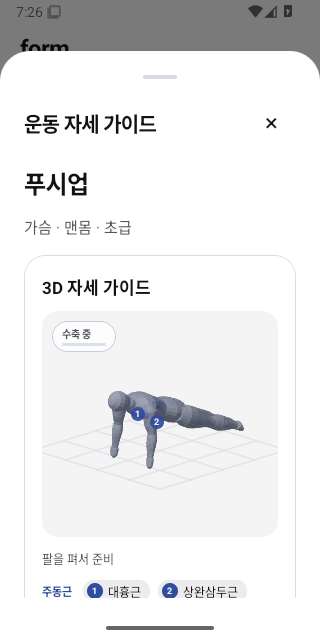
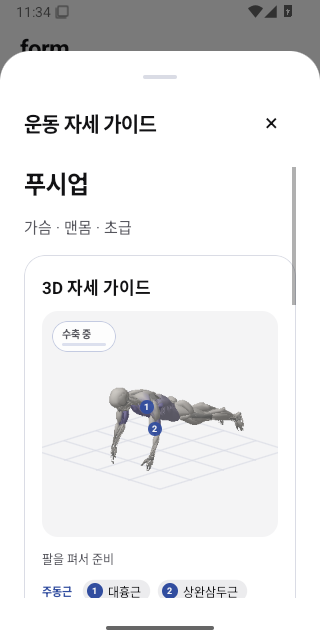
Document the Form 0.3.2 release with its verified 3D anatomy captures

Changed region(s): [[0.3438, 0.5938, 0.7812, 0.75], [0.9062, 0.25, 0.9375, 0.4688], [0.0625, 0.0, 0.2188, 0.0312]]

diff --git a/README.md b/README.md
@@ -2,13 +2,14 @@
 
 iPhone·iPad와 Android에서 운동을 기록하는 네이티브 앱입니다. 루틴·세트 기록, 3D 운동 자세, 인바디, Apple 건강·Health Connect, Apple Watch·Wear OS 동반 앱을 제공합니다.
 
-**현재 버전은 Form 0.3.2 네이티브 테스트 빌드입니다.** Android 휴대폰과 Wear OS는 테스트 APK, iPhone·iPad와 Apple Watch는 서명이 필요한 IPA로 제공됩니다. 기기에서 건강 연동과 워치 페어링을 검증하는 절차는 설치 문서에 있습니다. [v0.3.2 다운로드](https://github.com/M0lli2/form-fitness/releases/tag/v0.3.2) · [설치 및 실기기 검증](docs/INSTALL.md)
+**현재 버전은 Form 0.3.2 네이티브 테스트 빌드입니다.** Android 휴대폰과 Wear OS는 테스트 APK, iPhone·iPad와 Apple Watch는 서명이 필요한 IPA로 제공됩니다. 저장소가 공개되어 있어 GitHub 로그인 없이 내려받을 수 있고, 기기에서 건강 연동과 워치 페어링을 검증하는 절차는 설치 문서에 있습니다. [v0.3.2 다운로드](https://github.com/M0lli2/form-fitness/releases/tag/v0.3.2) · [설치 및 실기기 검증](docs/INSTALL.md)
 
 ## 0.3.2 변경사항
 
-- 운동도감의 기본 63종과 사용자 추가 운동에서 같은 3D 모델로 근육을 확인할 수 있습니다. 22종은 기존 자세 재생을 지원하고, 나머지는 대상 근육과 단계별 운동 방법을 제공합니다.
-- 운동도감의 근육 선택과 기록의 최근 7일 근육 볼륨에도 동일한 조형을 사용합니다. 무광 회백색을 기본으로 쓰며 선택한 근육과 볼륨을 보라색으로 표시합니다.
+- 운동도감의 기본 63종과 사용자 추가 운동에서 같은 3D 모델로 근육을 확인할 수 있습니다. 22종은 기존 자세 재생을 지원하고, 나머지는 대상 근육과 단계별 운동 방법을 제공합니다. 동작을 재생하면 근육 표면이 자세를 따라 움직입니다.
+- 운동도감의 근육 선택과 기록의 최근 7일 근육 볼륨에도 동일한 조형을 사용합니다. 몸통과 팔다리를 16개 근육 부위로 나누고, 무광 회백색을 기본으로 쓰며 주동근·보조근과 선택한 근육, 기록된 볼륨을 보라색으로 표시합니다.
 - 루틴에서 운동 종목을 추가한 뒤 시작 전에 중량·횟수를 입력하고 세트를 추가할 수 있습니다.
+- 같은 빌드에서 Android·Wear OS APK 2종과 iPhone·iPad·Apple Watch용 무서명 IPA 2종, SHA-256 체크섬을 함께 올렸습니다.
 
 | 시작 전 세트 입력 | 3D 근육 모델 |
 |---|---|
@@ -59,13 +60,13 @@ iPhone·iPad와 Android에서 운동을 기록하는 네이티브 앱입니다. 
 |---|
 | <img src="docs/screenshots/settings-aligned-steppers.png" width="235" alt="주간 목표와 휴식 시간의 빼기 및 더하기 버튼이 각각 같은 열에 정렬된 다크 모드 화면"> |
 
-### 피드백 반영판 실제 화면
+### 0.3.2 3D 근육 화면
 
-아래 화면은 피드백 기능이 처음 적용된 0.1.0 Android 에뮬레이터에서 캡처했습니다. [실행 기록과 원본 이미지](https://github.com/M0lli2/form-fitness/actions/runs/44474655697)
+0.3.2 릴리스 APK를 Android 에뮬레이터에서 실행해 캡처했습니다. 운동도감과 자세 가이드, 최근 7일 근육 볼륨이 같은 조형과 색을 사용하는 것을 확인할 수 있습니다. [Android 실행·검증 기록](https://github.com/M0lli2/form-fitness/actions/runs/44898733252)
 
-| 운동도감 근육 필터 | 3D 근육 해부 | 근육 범례와 회전 조작 |
+| 3D 자세 가이드 · 푸시업 | 최근 7일 근육 볼륨 · 앞면 | 최근 7일 근육 볼륨 · 배면 |
 |---|---|---|
-| <img src="docs/screenshots/feedback-android-muscle-filter.png" width="235" alt="운동도감 타깃 근육 필터"> | <img src="docs/screenshots/feedback-android-anatomy.png" width="235" alt="운동 자세 가이드의 근육 레이어"> | <img src="docs/screenshots/feedback-android-anatomy-turned.png" width="235" alt="근육 범례와 회전·확대 조작 버튼"> |
+| <img src="docs/screenshots/anatomy-native-guide.png" width="235" alt="3D 자세 가이드의 푸시업 자세와 주동근 번호"> | <img src="docs/screenshots/weekly-anatomy-front.png" width="235" alt="기록 화면 최근 7일 근육 볼륨의 앞면"> | <img src="docs/screenshots/weekly-anatomy-back.png" width="235" alt="기록 화면 최근 7일 근육 볼륨의 배면"> |
 
 ## 설치
 
@@ -77,6 +78,8 @@ iPhone·iPad와 Android에서 운동을 기록하는 네이티브 앱입니다. 
 | iPhone + Apple Watch | [Form-0.3.2-iOS-unsigned-watch.ipa](https://github.com/M0lli2/form-fitness/releases/download/v0.3.2/Form-0.3.2-iOS-unsigned-watch.ipa). 휴대폰·워치 앱 각각에 올바른 서명과 권한 구성이 필요합니다. |
 
 [SHA-256 체크섬](https://github.com/M0lli2/form-fitness/releases/download/v0.3.2/Form-0.3.2-SHA256SUMS.txt) · [설치 순서 및 TestFlight 준비](docs/INSTALL.md)
+
+네 파일 모두 공개 저장소의 릴리스에 올라 있어 GitHub 계정 없이 내려받을 수 있습니다. iPhone·iPad와 Apple Watch 파일은 미서명이므로 설치하려면 Apple 서명과 프로비저닝이 필요합니다.
 
 ## 이전 테스트 빌드 실행 화면
 
@@ -96,9 +99,9 @@ Android 캡처는 [저장·복원 테스트](https://github.com/M0lli2/form-fitn
 
 - 하단 **운동도감**에서 운동을 선택하면 자세 상세가 열립니다. 운동 중 **운동 추가**에서도 자세를 확인한 뒤 추가할 수 있습니다.
 - 3D 가이드는 푸시업·맨몸 스쿼트·덤벨 컬 등을 포함해 총 22종입니다. 대상 운동에는 운동도감에서 3D 표시가 나타납니다.
-- 모델은 관절 좌표 기반입니다. 재생·일시 정지, 방향 전환, 확대, 주요 자세 전환을 지원합니다. 다른 운동도 단계별 텍스트 가이드를 제공합니다.
+- 모델은 원본 조형의 표면을 저장된 관절 좌표에 맞춰 변형합니다. 재생·일시 정지, 방향 전환, 확대, 주요 자세 전환을 지원합니다. 다른 운동도 단계별 텍스트 가이드를 제공합니다.
 - **근육 해부 모델**은 몸통과 팔다리의 입체 표면 위에 16개 근육 부위의 윤곽을 표시합니다. 모델이나 범례를 탭해 근육을 선택할 수 있습니다. [자세 가이드 모델](docs/MOTION-GUIDE.md)
-- 근육 그래픽과 회전 조작은 [피드백 반영판 실제 화면](#피드백-반영판-실제-화면)에서 확인할 수 있습니다.
+- 근육 그래픽과 회전 조작은 [0.3.2 3D 근육 화면](#032-3d-근육-화면)에서 확인할 수 있습니다.
 
 ## 디자인 검토
 
@@ -226,7 +229,7 @@ npm run check
 npm run typecheck
 ```
 
-v0.3.1에서 도메인 테스트 82개, 네이티브 계약·타입 검사, Android 번들 생성을 확인했습니다. 릴리스 빌드에서는 Android 에뮬레이터 운동 여정, iOS 시뮬레이터 XCTest, APK 서명·버전과 Apple IPA 버전을 검증했습니다. [소스 검사](https://github.com/M0lli2/form-fitness/actions/runs/44658112152) · [릴리스 검증](https://github.com/M0lli2/form-fitness/actions/runs/44658112071) 실기기 건강 권한, 워치 페어링, 스토어 서명·심사는 [실기기 검증 표](docs/INSTALL.md#남은-실기기-검증)에서 관리합니다.
+v0.3.2에서 도메인 테스트 87개, 네이티브 계약·타입 검사, Android 번들 생성을 확인했습니다. 릴리스 빌드에서는 Android 에뮬레이터 운동 여정, iOS 시뮬레이터 XCTest, APK 서명·버전과 Apple IPA 버전을 검증했습니다. [소스 검사](https://github.com/M0lli2/form-fitness/actions/runs/44898733199) · [릴리스 검증](https://github.com/M0lli2/form-fitness/actions/runs/44898733252) 실기기 건강 권한, 워치 페어링, 스토어 서명·심사는 [실기기 검증 표](docs/INSTALL.md#남은-실기기-검증)에서 관리합니다.
 
 ## 이전 구현 기록
 

diff --git a/docs/MOTION-GUIDE.md b/docs/MOTION-GUIDE.md
@@ -2,7 +2,7 @@
 
 운동도감의 기본 운동 63종에서 3D 근육 모델을 열 수 있습니다. 자세 좌표가 있는 22종은 반복 재생, 일시정지, 8방향 회전, 확대와 시작·끝 자세를 지원합니다. 나머지 종목과 사용자 추가 운동은 앞면·배면 근육 모델과 기존의 단계별 운동 방법을 표시합니다.
 
-도감의 타깃 근육 선택, 운동 상세, 기록의 최근 7일 근육 볼륨은 같은 모델을 사용합니다. 회백색을 기본으로 쓰며 운동의 주동근·보조근, 직접 고른 근육, 기록된 볼륨은 보라색으로 표시합니다. 운동 상세에서 근육을 누르면 부위 이름을 확인할 수 있습니다.
+도감의 타깃 근육 선택, 운동 상세, 기록의 최근 7일 근육 볼륨은 같은 모델을 사용합니다. 회백색을 기본으로 쓰며 운동의 주동근·보조근, 직접 고른 근육, 기록된 볼륨은 보라색으로 표시합니다. 운동 상세에서 근육을 누르면 부위 이름을 확인할 수 있습니다. 동작을 재생하는 동안 근육 표면은 약 0.3초 간격으로 자세에 맞춰 갱신되고, 관절과 장비 선은 매 프레임 부드럽게 움직입니다.
 
 ## 입체 근육 모델
 

diff --git a/docs/VALIDATION.md b/docs/VALIDATION.md
@@ -2,6 +2,13 @@
 
 이 문서는 실제 결과와 아직 실행하지 않은 항목을 구분합니다.
 
+## v0.3.2
+
+- [소스 검사](https://github.com/M0lli2/form-fitness/actions/runs/44898733199)에서 도메인 테스트 87개와 타입·네이티브 계약 검사를 통과했습니다.
+- [릴리스 검증](https://github.com/M0lli2/form-fitness/actions/runs/44898733252)에서 Android·Wear OS 빌드와 테스트 인증서, Android 에뮬레이터 운동 여정, iOS 시뮬레이터 XCTest, iPhone·iPad 및 Apple Watch 무서명 IPA의 버전을 확인했습니다.
+- 운동도감·자세 가이드·최근 7일 근육 볼륨에 같은 3D 조형이 적용된 화면을 같은 실행의 Android 에뮬레이터 캡처로 확인했습니다.
+- Apple IPA 실기기 설치에는 배포 서명과 프로비저닝이 필요합니다.
+
 ## v0.3.1
 
 - [소스 검사](https://github.com/M0lli2/form-fitness/actions/runs/44658112152)에서 도메인 테스트 82개와 타입·네이티브 계약 검사를 통과했습니다.

diff --git a/docs/INSTALL.md b/docs/INSTALL.md
@@ -72,4 +72,4 @@ Mac에 테스트할 iPhone을 연결하고, 페어링한 Apple Watch를 Xcode에
 
 Google Play 내부 테스트용 휴대폰 AAB는 Play 프로젝트와 업로드 서명이 연결된 환경에서 `npx eas-cli build --platform android --profile production`으로 생성합니다. Wear OS는 별도 AAB와 앱 서명의 일치 여부를 확인하고 해당 Wear OS 테스트 트랙에 등록합니다. 공개 배포 전 스토어의 건강 권한 선언, 개인정보처리방침 공개 URL, 스토어 등록 정보, 의존성 보안 점검을 완료합니다.
 
-빌드와 실행 검증은 [v0.3.1 Actions 기록](https://github.com/M0lli2/form-fitness/actions/runs/44658112071)에서 확인하세요.
+빌드와 실행 검증은 [v0.3.2 Actions 기록](https://github.com/M0lli2/form-fitness/actions/runs/44898733252)에서 확인하세요.
